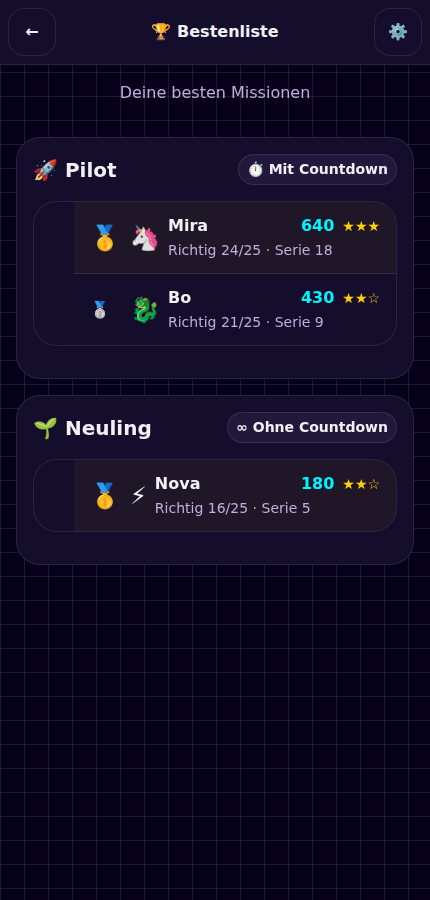
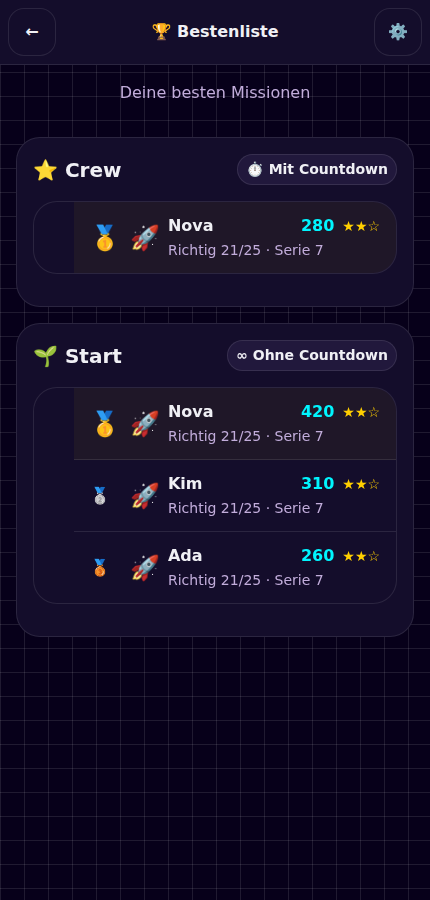
docs: retake every screenshot, and correct what the text had outgrown
All eight images were from before this week's work and showed it. The
arcade one is the clearest case: its game bar had "Beenden" running off
the right edge, which is the overflow fixed since. Settings still listed
the ranks as Neuling, Kadett and Pilot.

Two games were illustrated by nothing at all. Number Sense is a whole
game with its own map, seven stations and the sandbox above them, and had
no picture in a README that shows every other mode. Two players had none
either, so the handover — the thing the section is mostly about — could
only be imagined. Both now have one.

Three claims had also drifted from the code:

The two-player section still explained scoring by streak and quoted 250
to 230, which stopped being how a winner is chosen when that rule was
found to crown the child with fewer right answers.

The settings table listed "Show points" among the trainer's settings and
Language fifth in the shared group; the page has them in the arcade group
and first. A table claiming to mirror the page should mirror it.

The design-choices list gained the two decisions made this week that
belong in it: why a first run sets a best without announcing one, and why
a two-player round is decided on right answers and recorded nowhere.

Counts were checked against the code rather than trusted: 25 questions,
16 in a pair, 9 beam stations in 3 zones, 7 sense stations in 2, 23
planets in 4 galaxies, 144 facts. All hold. Every settings default holds.
[…]

diff --git a/README.md b/README.md
@@ -81,6 +81,8 @@ from a number, and say roughly where a number sits. Those are not safe assumptio
 are the strongest predictors of later arithmetic, and every one of them is trainable. This
 is where a child who is not yet ready for `2 × 7` has somewhere to be.
 
+![The Number Sense map: two zones of stations, with Explore numbers above them](./docs/math-invaders-number-sense.png)
+
 ### Seven stations in two zones, and a sandbox
 
 | Zone | Stations | What it asks |
@@ -323,6 +325,8 @@ belongs to this game, so the other three do not link to it.
 Reached from the Math Invaders screen. There is no server and never will be, so a second
 player is the one sitting next to the first.
 
+![A two-player round pausing to hand the device over, with both tallies on the board](./docs/math-invaders-two-players.png)
+
 ### How a round works
 
 **16 questions, eight each**, alternating strictly. A solo mission is 25, but in a pair
@@ -347,11 +351,11 @@ because some pairs want it, and it is the adult's choice rather than the default
 A draw is reported as nobody winning rather than as a tie: *"nobody won"* and *"you both got
 the same"* are the same sentence to a seven-year-old, and it is the truthful one.
 
-**Head to head scores each child on their own streak.** The combo multiplier climbs with a
-run of right answers, so a *shared* combo hands whoever goes first a different rung of the
-ladder from whoever goes second — two children answering everything correctly finished 250
-to 230 purely on turn order. Playing together keeps the shared combo on purpose: building
-one streak between them is the collaboration.
+**Head to head is decided on right answers**, because that is the only number the round
+ever puts in front of a child. It used to be decided on points, and points are never shown
+here — so a streak could crown the child who got *fewer* right: five in a row beat six with
+a miss in the middle, 80 to 60, while both scoreboards said 5 against 6. A verdict a child
+cannot check against what they were shown is not one they can trust.
 
 ### It records nothing
 
@@ -478,14 +482,14 @@ they run simplest first — the same order as the home screen.
 | ⏱ Countdown | 🛸 Arcade | Off · Gentle · On | Off |
 | 💡 Worked solutions | 🛸 Arcade | On / Off | On |
 | 📖 Word problems | 🛸 Arcade | On / Off | Off |
+| 🏅 Show points while playing | 🛸 Arcade | On / Off | On |
 | Strategy cards | ✖ Trainer | On / Off | On |
 | Trainer progress | ✖ Trainer | Reset | — |
-| 🏅 Show points while playing | 🛸 Arcade | On / Off | On |
+| Language | ⚙ All games | German · Italian · English · French | German |
 | 🧠 Thinking time | ⚙ All games | Normal · More · Most | Normal |
 | 🔤 Easier reading | ⚙ All games | On / Off | Off |
 | 🖨 To print | ⚙ All games | — | — |
 | 📋 Progress | ⚙ All games | — | — |
-| Language | ⚙ All games | German · Italian · English · French | German |
 | 🔊 Sound | ⚙ All games | On / Off | On |
 | Delete all data | ⚙ All games | — | — |
 
@@ -558,7 +562,9 @@ and mental arithmetic. Where a design choice looks unusual, it is usually delibe
 | No daily-login streak | The combo streak is within-mission and resets each run, so there is no cross-day loss aversion to exploit. |
 | Stars start at 65 %, not 50 % | With four tiles, guessing alone scores 25 %. Below 65 % the game offers smaller numbers instead of a verdict. |
 | Speed shown only at ≥ 80 % accuracy | Fluency is flexibility, accuracy and strategy before it is pace (NCTM 2020). |
-| A miss waits for *Got it* rather than a timer | Elaborated feedback only works if it is read; two seconds is under the time it takes to read a two-step working. |
+| A miss waits for *Got it* rather than a timer | Elaborated feedback only works if it is read; two seconds is under the time it takes to read a two-step working. A right answer never waits: there is nothing on screen to have read. |
+| A first run sets a personal best without announcing one | A best means beating your previous self, and on run one there is no previous self. The stars carry that run's celebration instead. |
+| A two-player round is decided on right answers, and records nothing | Points are never shown in that mode, so deciding on them crowned the child holding the smaller number. And two children answering into one profile would describe a composite child who does not exist. |
 | Distractors are built from real near-misses | Documented arithmetic bugs, not absurd fillers — which is what lets a wrong answer be named. |
 | Leitner scheduling, commutativity-canonical (`7×8 ≡ 8×7`) | Spacing practice out over days beats massing it (Murray et al. 2025); treating `7×8` and `8×7` as one fact halves what there is to carry. |
 | Number Sense allows a near miss when placing a number | The skill is a sense of magnitude; marking 38-for-37 wrong would measure something else. Everywhere a quantity is exact, it has to be exact. |
